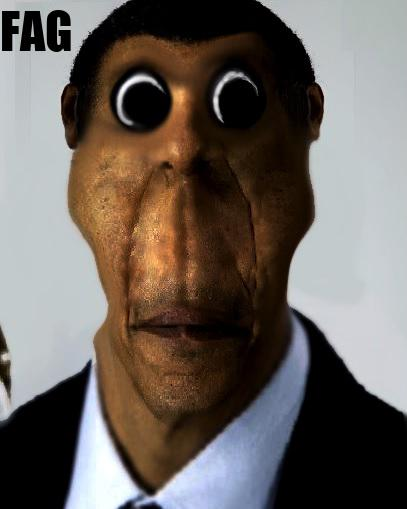
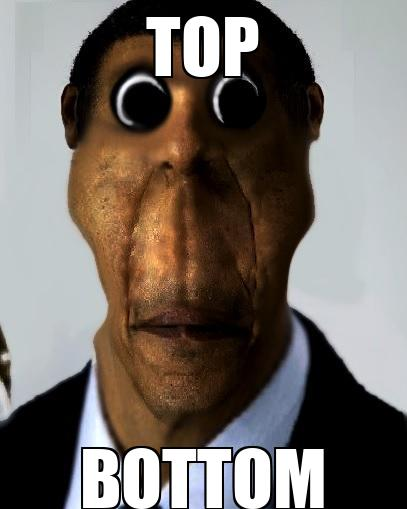
finished meme generator

Changed region(s): [[0.1769, 0.8546, 0.7961, 1.0], [0.3538, 0.0295, 0.6486, 0.1768], [0.0, 0.0, 0.1769, 0.1179]]

diff --git a/Project-meme-generator/meme-generator.py b/Project-meme-generator/meme-generator.py
@@ -1,33 +1,52 @@
 from PIL import Image, ImageFont, ImageDraw
 import requests
 from io import BytesIO
+fontFamily = "impact.ttf"
 
-# class Meme:
-#     def __init__(self, picture, topText, bottomText):
-#         self.picture = picture
-#         self.topText = topText
-#         self.bottomText = bottomText
-
-#     def print(self):
-#         print(self.topText)
-#         print(self.picture)
-#         print(self.bottomText)
-
-#     def toString(self):
-#         return self.topText + "\n" + self.picture + "\n" + self.bottomText
-
-message = ""
 print("gimme link")
-message = input("link: ")
-response = requests.get(message.strip())
+url = input("link: ")
+response = requests.get(url)
 img = Image.open(BytesIO(response.content))
-print("gimme top text")
-message = input("top text: ")
 draw = ImageDraw.Draw(img)
-# font = ImageFont.truetype(<font-file>, <font-size>)
-font = ImageFont.truetype("impact.ttf", 50)
-# draw.text((x, y),"Sample Text",(r,g,b))
-draw.text((0, 0),message.upper(),(0,0,0),font=font)
+img_fraction = 0.15
+desiredHeight = img_fraction*img.size[1]
+desiredWidth = img.size[0]
+def currentHeight(text, font):
+    return font.getsize(text)[1]
+def currentWidth(text, font):
+    return font.getsize(text)[0]
+def addText(text, yPos):
+    fontSize = 1
+    font = ImageFont.truetype(fontFamily, fontSize)
+    while currentHeight(text, font) < desiredHeight and currentWidth(text, font) < desiredWidth:
+        fontSize += 1
+        font = ImageFont.truetype(fontFamily, fontSize)
+    halfWidth = img.size[0]/2-font.getsize(text)[0]/2
+    x = halfWidth
+    y = yPos
+    black = (0,0,0)
+    white = (255,255,255)
+    Left = (x-2, y-2)
+    Right = (x+2, y-2)
+    bottomRight = (x+2, y+2)
+    bottomLeft = (x-2, y+2)
+    draw.text(Left, text, black, font=font)
+    draw.text(Right, text, black, font=font)
+    draw.text(bottomRight, text, black, font=font)
+    draw.text(bottomLeft, text, black, font=font)
+    draw.text((x,y),text, white, font=font)
+print("gimme top text")
+topText = input(" text: ").upper()
+topPos = 0
+addText(topText, topPos)
 print("gimme bottom text")
-message = input("bottom text: ")
+bottomText = input("bottom text: ").upper()
+tempFontSize = 1
+tempFont = ImageFont.truetype(fontFamily, tempFontSize)
+while currentHeight(bottomText, tempFont) < desiredHeight and currentWidth(bottomText, tempFont) < desiredWidth:
+        tempFontSize += 1
+        tempFont = ImageFont.truetype(fontFamily, tempFontSize)
+bottomPos = img.size[1]-tempFont.getsize(bottomText)[1]
+addText(bottomText, bottomPos)
 img.save('sample-out.jpg')
+img.show()
